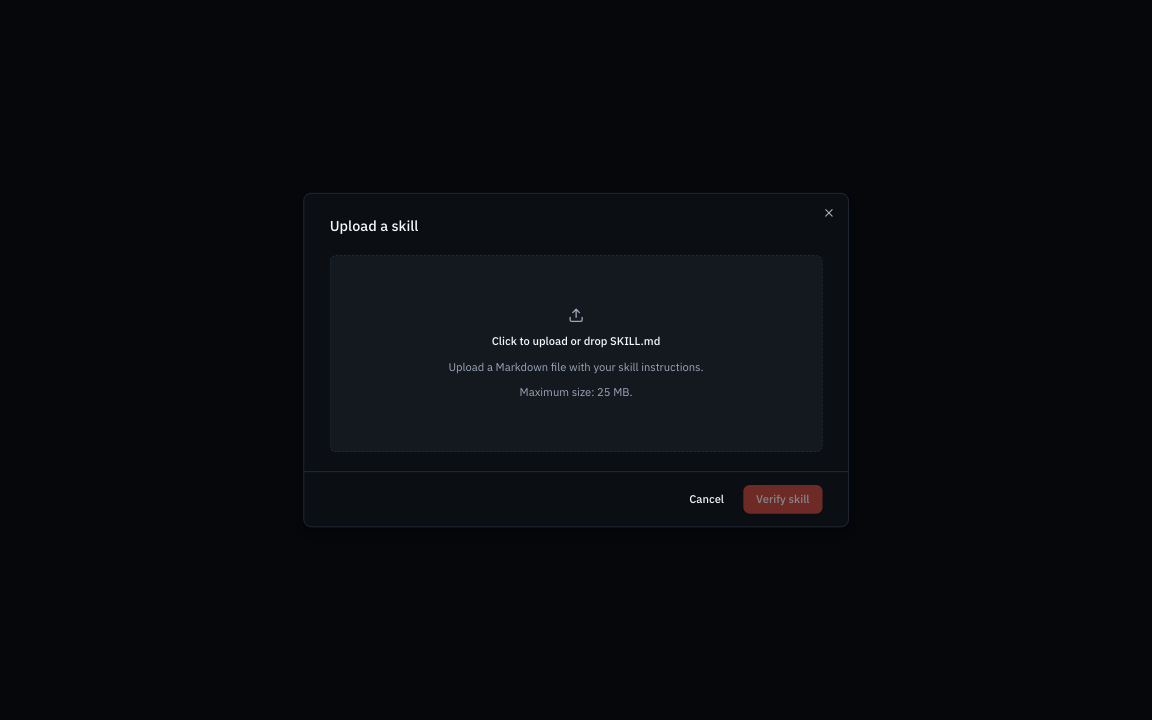
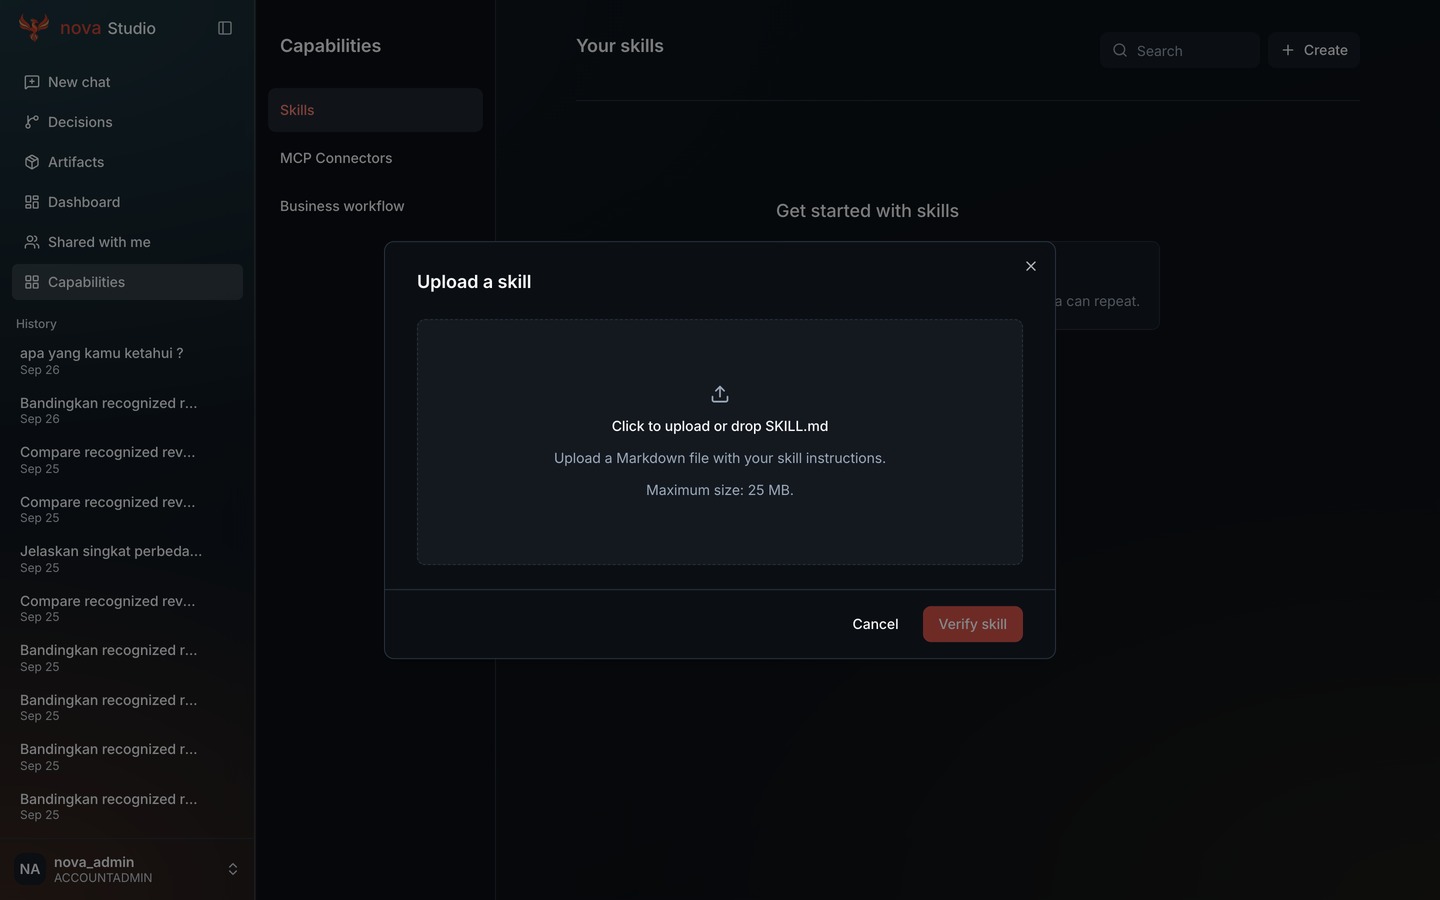
Refresh README screenshots for the current Nova UI
Recapture the SQL Workspace, Database Explorer, and Nova Studio images
from the glass shell and phoenix branding, and update the captions to
describe what the new captures show.

diff --git a/README.md b/README.md
@@ -160,9 +160,9 @@ Nova Console exposes the data and control foundation across these layers.
 
 ## The Nova app
 
-The Studio workspace image is a frontend preview using sample Sales Agent metadata
-from this repository; it does not show a live query result. The other images are
-checked-in app and Studio UI captures.
+These images are captures of a local development instance running demo sales
+data. The Studio workspace shows a saved conversation in which Smart delegated
+the question to a Sales Agent.
 
 ### SQL Workspace
 
@@ -170,11 +170,11 @@ checked-in app and Studio UI captures.
 
 ### Database Explorer
 
-![Nova Database Explorer browsing stage files](docs/assets/readme/database-explorer.png)
+![Nova Database Explorer browsing the tables of a sales database](docs/assets/readme/database-explorer.png)
 
 ### Nova Studio: governed intelligence workspace
 
-![Nova Studio workspace home with a sample Sales Agent](docs/assets/readme/nova-studio-chat-preview.png)
+![Nova Studio answering a revenue question through a Sales Agent](docs/assets/readme/nova-studio-chat-preview.png)
 
 ### Nova Studio capabilities
 
@@ -182,7 +182,7 @@ checked-in app and Studio UI captures.
 
 ### Nova Studio skill upload
 
-![Nova Studio skill upload dialog](docs/assets/readme/nova-studio-skill-upload.png)
+![Nova Studio skill upload dialog over the Capabilities view](docs/assets/readme/nova-studio-skill-upload.png)
 
 ## Architecture
 
